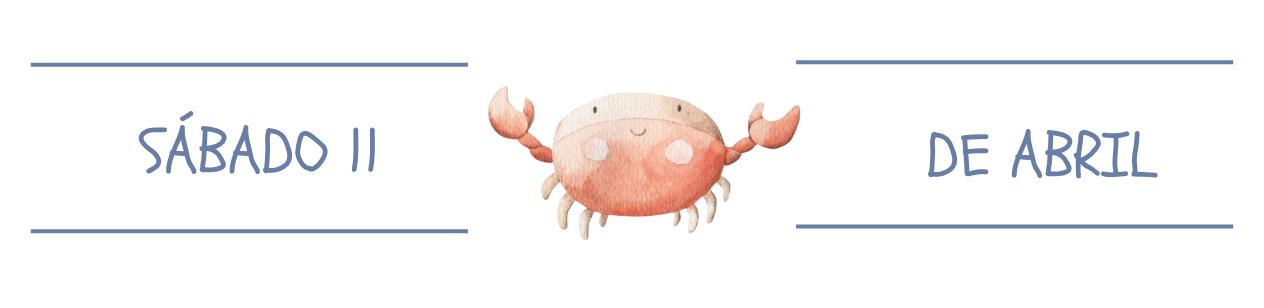
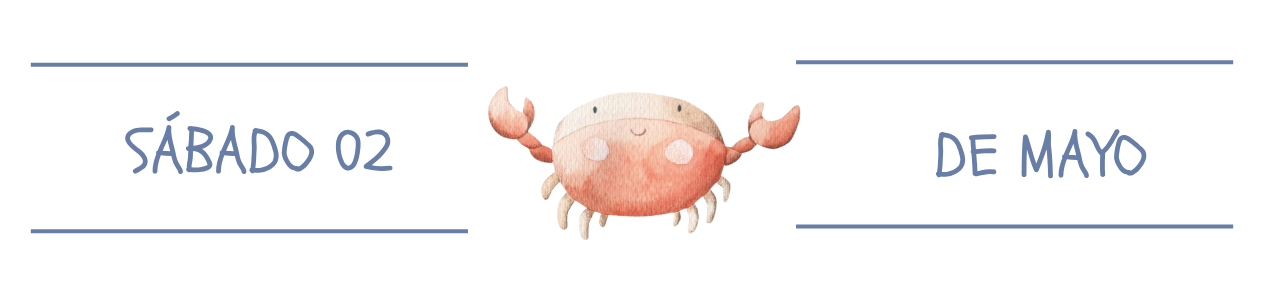
A
A

Changed region(s): [[0.0926, 0.3506, 0.3085, 0.5844], [0.7097, 0.4091, 0.9256, 0.5844]]

diff --git a/index.html b/index.html
@@ -42,7 +42,7 @@
     <div class="segundo"> 
       
       <p data-aos="fade-up"> TE ESPERO PARA FESJETAR <br> MI PRIMER AÑITO <br><br>
-        🎉 11 DE ABRIL <br>⏰ DE 16 A 19 HS <br> 📍 KAI EVENTOS <br> <br>  HACE CLICK PARA SABER COMO LLEGAR</p>
+        🎉 02 DE MAYO <br>⏰ DE 18 A 21 HS <br> 📍 KAI EVENTOS <br> <br>  HACE CLICK PARA SABER COMO LLEGAR</p>
       <a  data-aos="fade-up" class="boton2" target="_blank"  href="https://www.google.com/maps/dir//KAI+EVENTOS,+Belgrano+1381+Esquina,+Leandro+N.+Alem,+B1663+San+Miguel,+Provincia+de+Buenos+Aires/@-34.545207,-58.7136157,17.83z/data=!4m18!1m8!3m7!1s0x95bcbd63e0c56013:0x947d2f587afbc8b8!2sKAI+EVENTOS!8m2!3d-34.5443586!4d-58.7123366!15sCgxLYWkgZXZlbnRvcy5aDSILa2FpIGV2ZW50b3OSARdjaGlsZHJlbnNfcGFydHlfc2VydmljZZoBJENoZERTVWhOTUc5blMwVkpRMEZuU1VOd2JUaGhkWFZCUlJBQuABAPoBBAgUED8!16s%2Fg%2F11tfk8zfb1!4m8!1m0!1m5!1m1!1s0x95bcbd63e0c56013:0x947d2f587afbc8b8!2m2!1d-58.7123366!2d-34.5443586!3e0?entry=ttu&g_ep=EgoyMDI2MDQwMS4wIKXMDSoASAFQAw%3D%3D">CÓMO LLEGAR</a>    
        
  
@@ -64,7 +64,7 @@
         -->
         <div class="main-bloque">
             <img data-aos="fade-up"  src="./figuras/icon-3.png" alt="">
-            <p data-aos="fade-up" >TU PRESENCIA ES MUY IMPORTANTE PARA MI, NO OLVIDES CONFIRMAR ASISTENCIA CON MIS PAPIS ANTES DEL 08 DE ABRIL.</p>
+            <p data-aos="fade-up" >TU PRESENCIA ES MUY IMPORTANTE PARA MI, NO OLVIDES CONFIRMAR ASISTENCIA CON MIS PAPIS ANTES DEL 25 DE ABRIL.</p>
             <a  data-aos="fade-up" class="boton" target="_blank"  href="https://wa.link/kr0adq">CONFIRMAR</a>  
            
         </div>
@@ -83,7 +83,7 @@
           </div>
           <div>
             <h2 data-aos="fade-up" >Ciro</h2>
-            <H3 data-aos="fade-up">11.04.26</H3>
+            <H3 data-aos="fade-up">02.05.26</H3>
           </div>
           <div>
             <img class="espejo" src="./figuras/icon-1.png" alt="">

diff --git a/countdown.js b/countdown.js
@@ -30,4 +30,4 @@ const countdown = (deadline, elem, finalMessage ) => {
 };
 
 
-countdown('APR 11 2026 16:00:51 GMT-0300', 'clock', 'llego el dia')
+countdown('MAY 02 2026 18:00:51 GMT-0300', 'clock', 'llego el dia')
